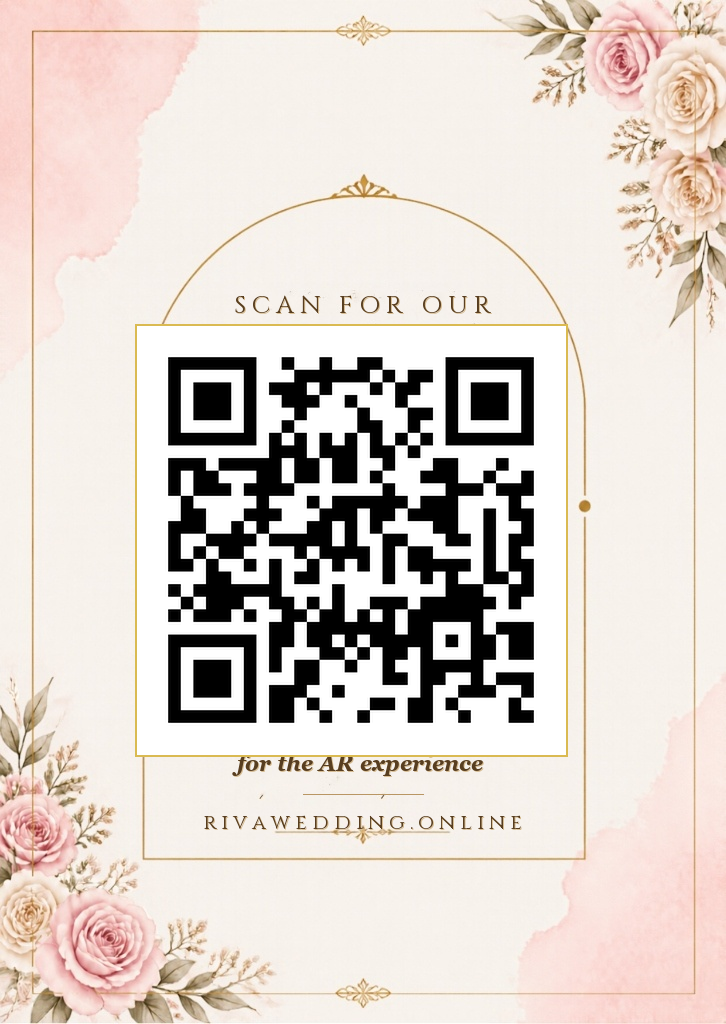
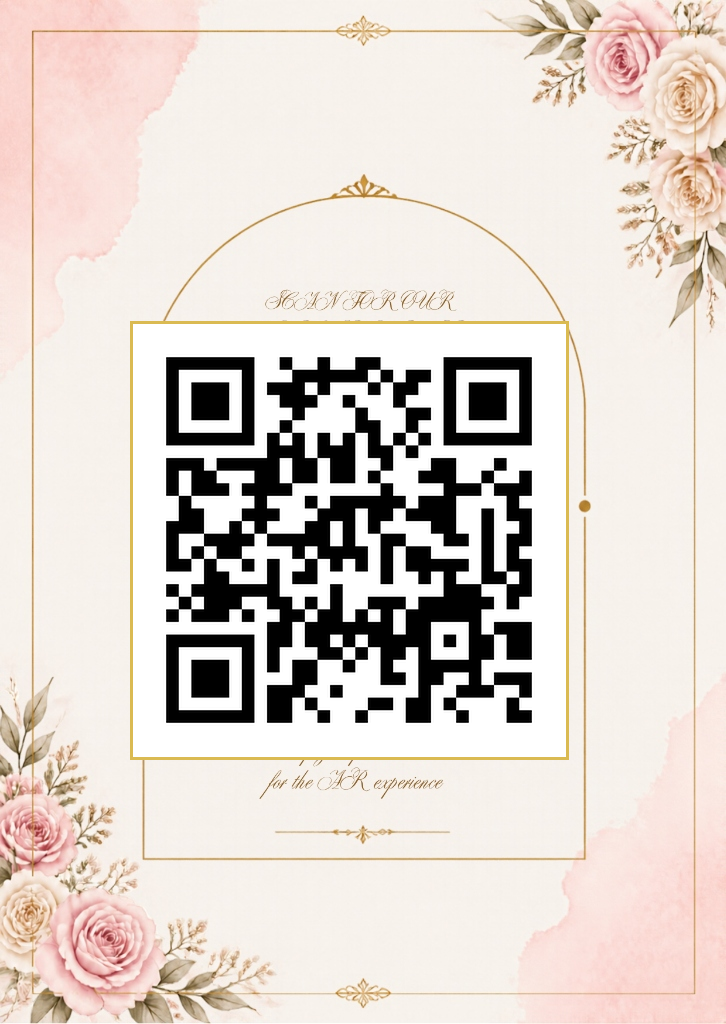
Update card back with latest QR code, add 2D stage preview composite

diff --git a/export_to_desktop.py b/export_to_desktop.py
@@ -1,0 +1,135 @@
+"""
+1. Update card back with the latest uploaded QR code image
+2. Render all final preview images
+3. Copy all FINAL deliverable photos to Desktop in a 'Wedding AR Photos' folder
+"""
+from PIL import Image, ImageDraw, ImageFont, ImageFilter
+import shutil, os, numpy as np
+
+DESKTOP   = os.path.expanduser('~/Desktop')
+OUT_FOLDER= os.path.join(DESKTOP, 'Vandan & Riddhi - Wedding AR')
+os.makedirs(OUT_FOLDER, exist_ok=True)
+
+NEW_QR    = r'C:/Users/vanda/.gemini/antigravity/brain/3133c024-35e5-486e-ba77-581008b91f2d/.user_uploaded/media_1794872090327_0c2da765.png'
+CARD_BACK_SRC = 'output/vandan_riddhi_card_back_with_qr.png'  # original card back layout
+CARD_BACK_OUT = 'output/vandan_riddhi_card_back_final.png'
+
+# ══════════════════════════════════════════════════════════════
+# STEP 1 — Update card back with crisp new QR
+# ══════════════════════════════════════════════════════════════
+# Restore clean card back (without old QR) from previous version
+import subprocess
+result = subprocess.run(
+    ['git', 'show', 'ab7b675:output/vandan_riddhi_card_back_with_qr.png'],
+    capture_output=True
+)
+if result.returncode == 0 and len(result.stdout) > 10000:
+    with open('output/_card_back_base.png', 'wb') as f:
+        f.write(result.stdout)
+    card = Image.open('output/_card_back_base.png').convert('RGBA')
+    print(f'Loaded base card: {card.size}')
+else:
+    card = Image.open(CARD_BACK_SRC).convert('RGBA')
+    print(f'Using current card: {card.size}')
+
+cw, ch = card.size
+
+# Load & binarize new QR
+qr = Image.open(NEW_QR).convert('L')
+qr_arr = np.array(qr)
+qr_arr = (qr_arr > 128).astype(np.uint8) * 255
+qr_bw  = Image.fromarray(qr_arr, 'L').convert('RGBA')
+
+# Target QR size (56% of card width for good scan-ability)
+target_w = int(cw * 0.56)
+qr_resized = qr_bw.resize((target_w, target_w), Image.LANCZOS)
+
+# White mat behind QR
+mat_pad = 14
+mat = Image.new('RGBA', (target_w + mat_pad*2, target_w + mat_pad*2), (255,255,255,255))
+
+# Centred, 33% from top
+px = (cw - mat.width) // 2
+py = int(ch * 0.33)
+card.paste(mat, (px - mat_pad, py - mat_pad), mat)
+card.paste(qr_resized, (px, py), qr_resized)
+
+# Gold border
+draw = ImageDraw.Draw(card)
+for t in range(3):
+    draw.rectangle([px-mat_pad-t, py-mat_pad-t, px+target_w+mat_pad+t, py+target_w+mat_pad+t],
+                   outline=(212,175,55,220), width=1)
+
+card.save(CARD_BACK_OUT, format='PNG', optimize=True)
+print(f'Updated card back -> {CARD_BACK_OUT}')
+# Clean up tmp
+if os.path.exists('output/_card_back_base.png'):
+    os.remove('output/_card_back_base.png')
+
+# ══════════════════════════════════════════════════════════════
+# STEP 2 — Render backdrop + plaque previews
+# ══════════════════════════════════════════════════════════════
+backdrop  = Image.open('output/textures/card_stage_backdrop.jpg')
+plaque    = Image.open('output/textures/stage_gold_plaque.png')
+couple_cut= Image.open('output/textures/foreground_cutout_ar.png')
+
+# Composite a quick 2D preview: couple cutout on top of backdrop
+prev_w, prev_h = backdrop.size
+prev = backdrop.convert('RGBA')
+
+# Resize couple to fit ~65% of backdrop height, bottom-aligned
+couple_h = int(prev_h * 0.68)
+couple_w  = int(couple_cut.width * couple_h / couple_cut.height)
+couple_rs  = couple_cut.resize((couple_w, couple_h), Image.LANCZOS)
+cx = (prev_w - couple_w) // 2
+cy = prev_h - couple_h - int(prev_h * 0.04)
+prev.paste(couple_rs, (cx, cy), couple_rs)
+
+# Paste plaque at bottom
+plq_w = int(prev_w * 0.72)
+plq_h = int(plaque.height * plq_w / plaque.width)
+plq_rs = plaque.resize((plq_w, plq_h), Image.LANCZOS)
+px2 = (prev_w - plq_w) // 2
+py2 = prev_h - plq_h - 5
+prev.paste(plq_rs, (px2, py2), plq_rs)
+
+preview_path = 'output/vandan_riddhi_stage_preview_2d.jpg'
+prev.convert('RGB').save(preview_path, 'JPEG', quality=92)
+print(f'2D preview saved -> {preview_path}')
+
+# ══════════════════════════════════════════════════════════════
+# STEP 3 — Copy all final deliverables to Desktop folder
+# ══════════════════════════════════════════════════════════════
+deliverables = {
+    # Card prints (for printer)
+    '01_PRINT_Card_Front.jpg':  'output/card_front.jpg',
+    '02_PRINT_Card_Back_QR.png': CARD_BACK_OUT,
+    # 2D preview composite
+    '03_PREVIEW_Stage_2D.jpg':  preview_path,
+    '04_PREVIEW_Stage_Render.jpg': 'output/stage_particles_preview.jpg',
+    # Backdrop & plaque textures
+    '05_Backdrop_Frosted_Glass.jpg': 'output/textures/card_stage_backdrop.jpg',
+    '06_Gold_Plaque_Vandan_Riddhi.png': 'output/textures/stage_gold_plaque.png',
+    # Couple cutout
+    '07_Couple_Cutout_PNG.png': 'output/textures/foreground_cutout_ar.png',
+    # Original photo
+    '08_Original_Photo_JAI3712.jpg': 'output/JAI_3712.jpg',
+    # Mask
+    '09_Segmentation_Preview.jpg': 'output/segmentation_preview.jpg',
+}
+
+copied = []
+for dest_name, src_path in deliverables.items():
+    if os.path.exists(src_path):
+        dest = os.path.join(OUT_FOLDER, dest_name)
+        shutil.copy2(src_path, dest)
+        size_kb = os.path.getsize(dest) // 1024
+        copied.append(f'  ✓ {dest_name} ({size_kb} KB)')
+        print(f'Copied: {src_path} -> {dest_name}')
+    else:
+        print(f'MISSING: {src_path}')
+
+print(f'\n=== Done! {len(copied)} files saved to Desktop folder ===')
+print(f'Folder: {OUT_FOLDER}')
+for c in copied:
+    print(c)
